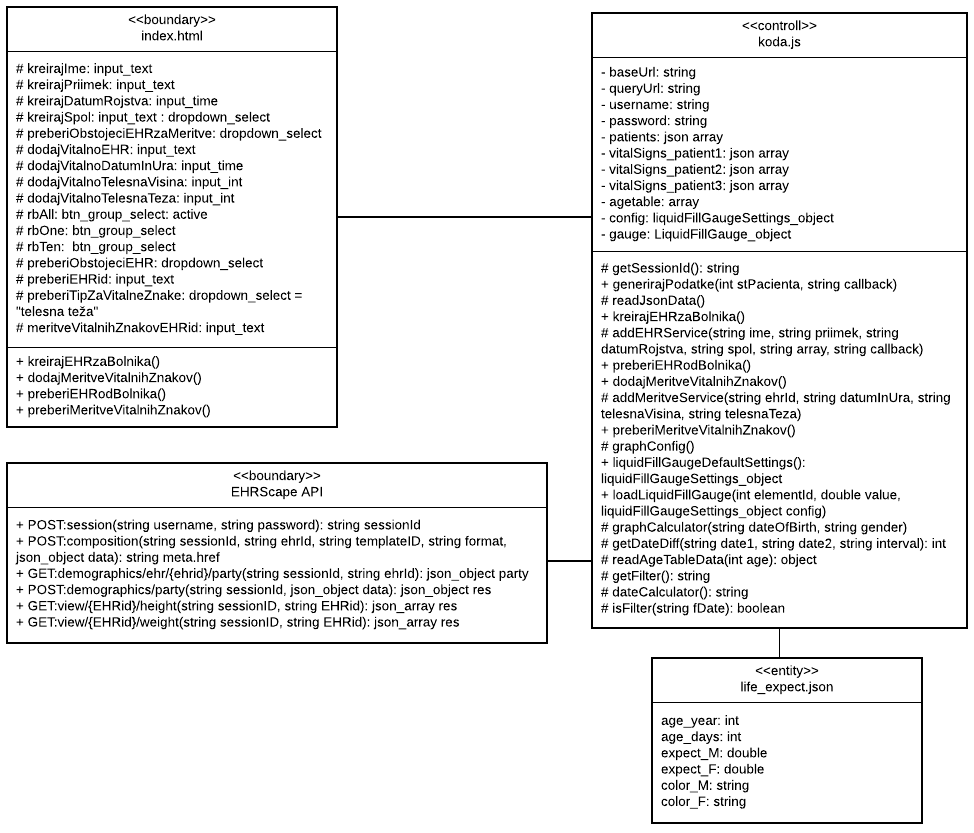
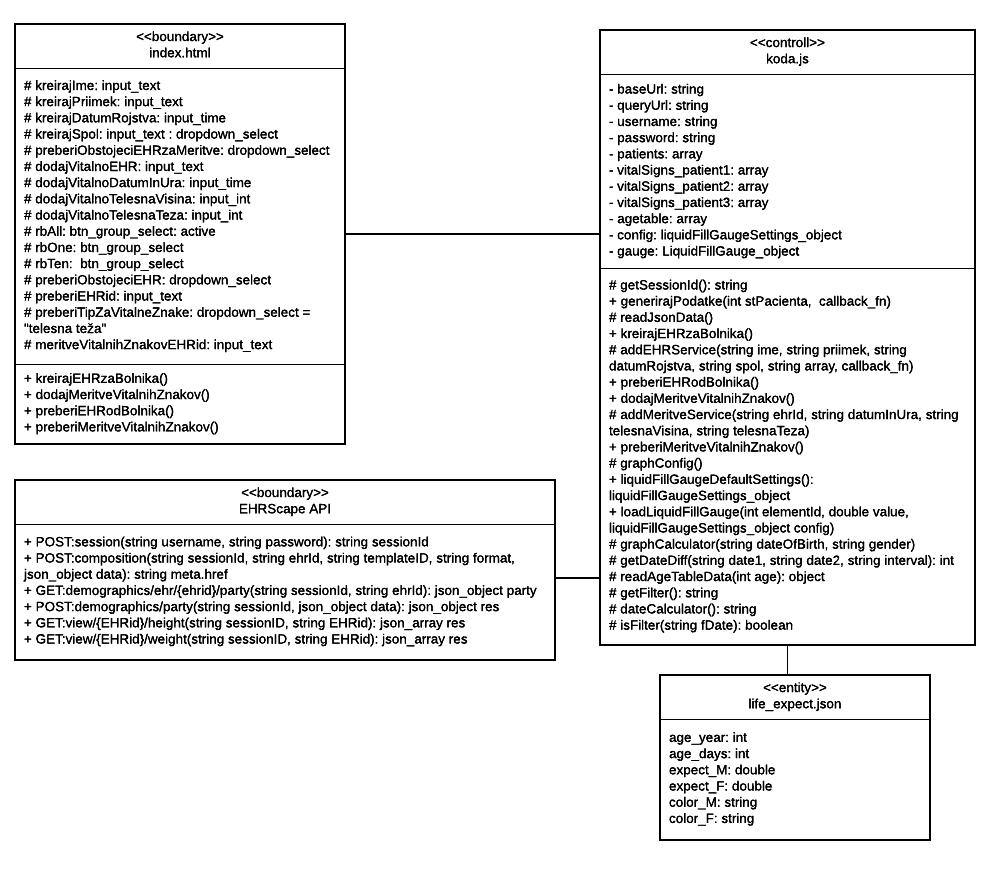
opis dodanega master-detail vzrorca, drugi popravki

Changed region(s): [[0.0, 0.0, 1.0, 0.9676]]

diff --git a/opis.html b/opis.html
@@ -48,14 +48,15 @@
             <p align="left"><strong>Ideja in namen aplikacije</strong></p>
             <p align="left">Podjetja, ki delajo z velikim številom strank imajo ponavadi v svojih CRM sistemih implementiran sistem rangiranja obstoječih in potencijalnih strank na osnovi več kazalcev iz obstoječih podatkov o stranki (redno plačevanje računov, velikost prometa ki ga ustvari stranka in podobno). 
             Na osnovi tega se izračuna rang ali rating stranke, ki agentu takoj pade v oči ko se mu stranka odpre v CRM-ju (stranka je v odvisnosti od svojega ratinga pobarvana različno (zeleno, oranžno, rdeče...). 
-            Enak sistem ratinga bi lahko implementirali v zdravstvenih zavarovalnicah, ki imajo dostop do podatkov iz EHR obstoječih ali potencialnih strank. 
-            Na osnovi zgodovine njihovih meritev, starosti, fizični aktivnosti strank in tudi zunanjih statističnih podatkih bi lahko naredili tovrstni sistem za rangiranje strank. 
-            V tej aplikaciji je za potrebe demonstracije imlementiran rating na osnovi samo enega podatka o stranki in enega zunanjega vira, v praksi pa bi postopek rangiranja bil veliko bolj kompleksen.</p>
+            Podoben sistem ratinga bi lahko implementirali v zdravstvenih zavarovalnicah, ki imajo dostop do podatkov iz EHR obstoječih ali potencialnih strank. 
+            Podatke iz EHR svojih strank, do katerih imajo dostop, bi lahko integrirali v svoj CRM sistem, ter na osnovi zgodovine njihovih meritev, starosti, BMI, fizični aktivnosti strank in tudi zunanjih statističnih podatkih bi lahko naredili tovrstni sistem za rangiranje strank. 
+            V tej aplikaciji je za potrebe demonstracije implementiran rating na osnovi samo enega podatka o stranki in enega zunanjega statističnega vira, v praksi pa bi postopek rangiranja bil veliko bolj kompleksen in bi lahko vključeval še meritve določenih vitalnih znakov.</p>
             <p align="left"><strong>Ciljna publika</strong></p>
             <p align="left"> Ciljna publika so zavarovalnice, ki sklepajo zavarovanja na področju zdravstva</p>
             <p align="left"><strong>Scenarij uporabe</strong></p>
             <p align="left"> Stranka pokliče svojo zdravstveno zavarovalnico, da bi se pozanimala o spremembi obstoječega ali o dodatnem zavarovanju. 
-            Agentu v zavarovalnici se v internem CRM sistemu takoj odprjo podatki o stranki. Brez posebnega poglabljanja v strankine podatke, agent že na osnovi indikatorja strankinega ratinga ima predstavo s kakšnim tipom stranke se pogovarja.</p>
+            Agentu v zavarovalnici se v internem CRM sistemu takoj odprjo podatki o stranki. Brez posebnega poglabljanja v strankine podatke, agent že na osnovi indikatorja strankinega ratinga ima predstavo s kakšnim tipom stranke se pogovarja. 
+            Strankine podatke o vitalnih znakih lahko po želji omejuje na določeno obdobje. Na ta način agent takoj ve kateri so primerni zavarovalniški produkti, ki jih lahko tej stranki ponudi. </p>
             <!-- KONEC: Opis ideje, ki jo aplikacija podpira -->
           </div>
         </div>
@@ -80,7 +81,18 @@
           </div>
           <div class="panel-body">
             <!-- ZAČETEK: Master/detail načrtovalski vzorec -->
-            <p><strong>TO-DO</strong>: Na tem mestu morate navesti uporabljen master/detail načrtovalski vzorec in na kakšen način ga nameravate uporabiti.</p>
+            <p align="left">Master/detail vzorec naj bi po zahtevah naloge bila <strong>funkcionalnost, ko uporabnik izbere določeno vrednost iz seznama, se naj posodobi množica odvisnih podatkov</strong>. </p>
+            <p align="left">V forumih je profesor podal še dodatna pojasnila: <br>
+            - Master-detail načrtovalski vzorec prikazuje glavni (master) seznam in podrobnosti (detail) izbranega elementa. <br>
+            - Vzorec se uporablja takrat, ko imamo preveliko količino podatkov, da bi jo naenkrat prikazali na strani. <br>
+            - Master je lahko v obliki obrazca, seznama ali drevesne strukture, medtem ko je lahko tudi detail v obliki obrazca, seznama ali drevesa in se ponavadi nahaja pod ali poleg master dela. <br>
+            - Vedno morate razmišljati, da se pri izbiri 1 master vrednosti prikaže več detail vrednosti, odvisnih od master vrednosti. Če to velja, potem je OK. </p>
+            <p align="left">Prvotno sem mislil, da bom zahtevo po master/detail vzorcu zadovoljil s tem, da bom implementiral vodenje seznama vseh generiranih in ročno dodanih strank, ki bi ga hranili oz. ažurirali v izvlečnih seznamih in bi ob izbiri/spremembi izbrane stranke na izvlečnem seznamu osvežil vsebino odvisnih tekstualnih ali vizualnih elementov v sosednjih delih aplikacije (recimo delu z meritvami, delu z grafom, delu kjer se prikazujejo osnovni podatki o osebi...). 
+            V diskusiji na forumu sem od profesorja dobil odgovor, da tovrstna implementacija ne bo zadovoljila pogoja za uporabo master/detail vzorca. <br>
+            Predlagal je naj poskusim implementirati master/detail vzorec na način da bi master bil neko časovno obdobje (npr. zadnji mesec, zadnje leto, zadnjih 5 let, zadnjih 20 let, celotno obdobje ipd.). 
+            Na podlagi te izbire obdobja bi se potem filtriral detail del (npr. en del podatkov vitalnih znakov, ki ustrezajo temu filtru). 
+            Smiselna vključitev te ideje v obstoječo aplikacijo bi tako bila, da bi lahko agent zavarovalnice glede priporočila in nadaljnje obravnave stranke odločal na osnovi podatkov iz izbranega časovnega obdobja. <br>
+            V skladu s predlogom, sem potem na ta način implementiral vzorec master/detail, tako da sedaj uporabnik aplikacije lahko podatke vitalnih znakov lahko filtrira z izbiro obdobja, ki ga pri določeni stranki zanima.</p>
             <!-- KONEC: Master/detail načrtovalski vzorec -->
           </div>
         </div>

diff --git a/index.html b/index.html
@@ -78,9 +78,6 @@
 							<div class="col-lg-4 col-md-4 col-sm-4">
 							  <select class="form-control input-sm" id="preberiObstojeciEHR">
 							    <option value=""></option>
-							    <!--<option value="e24382ab-b5dd-4e5d-9d02-20b32fec69b7">Igor Kos</option>
-							    <option value="49dcf499-9cb6-4d61-b411-47ec12ab8b6c">1. Testna Stranka</option>
-							    <option value="c6374843-c57c-4694-a4b2-c0d2f7b06833">2. Testna Stranka</option>-->
 							  </select>
 						  </div>
 						</div>
@@ -126,7 +123,6 @@
   							<div class="col-lg-4 col-md-4 col-sm-4">
   								<select class="form-control input-sm" id="preberiObstojeciEHRzaMeritve">
 	  								<option value=""></option>
-	  								<!--<option value="e24382ab-b5dd-4e5d-9d02-20b32fec69b7|2016-06-03T12:00Z|183|92.0|36.50|118|92|98|Smrketa">Igor Kos</option>-->
   								</select>
   							</div>
   						</div>
@@ -160,9 +156,6 @@
 						    <input type="radio" name="rbFilter"> Zadnjih 10 let
 						  </label>
 						</div>
-						
-						<!--<button type="button" class="btn btn-primary btn-xs" onclick="preberiMeritveVitalnihZnakov()">Preberi meritve vitalnih znakov</button>-->
-						
 				  </div>
 				</div>
 			</div>

diff --git a/knjiznice/js/koda.js b/knjiznice/js/koda.js
@@ -300,7 +300,7 @@ function preberiEHRodBolnika() {
                 "label-success fade-in'>Stranka '" + party.firstNames + " " +
                 party.lastNames + "', spol: "+ party.gender +", ki se je rodila '" + dateOfBirth[0] +
                 "'.</span>");
-                graphCalculator(party.dateOfBirth);
+                graphCalculator(party.dateOfBirth, party.gender);
                 
                 $('#lblIme').html(party.firstNames);
                 $('#lblPriimek').html(party.lastNames);
